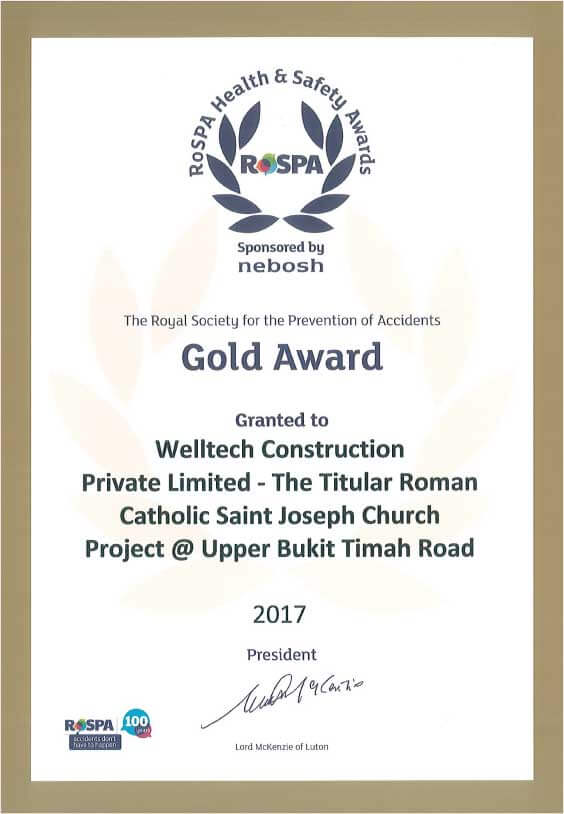
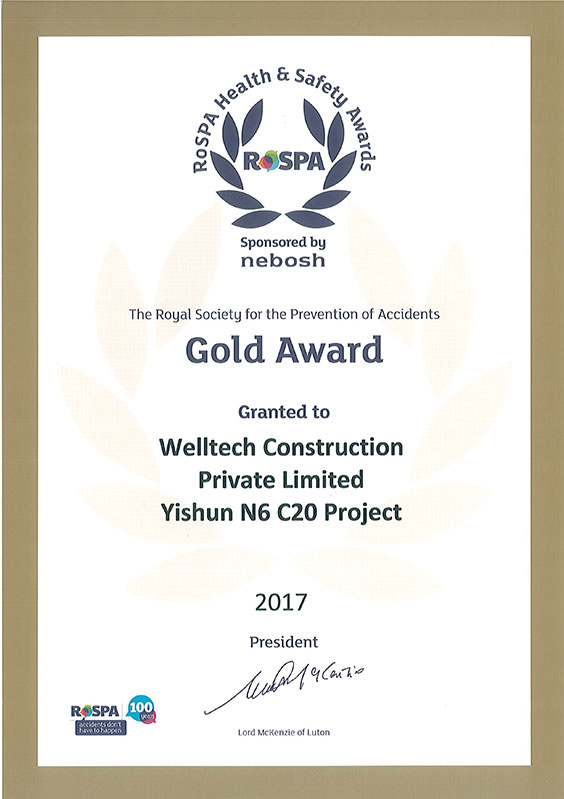
awards: Update page

diff --git a/awards.html b/awards.html
@@ -92,17 +92,31 @@
           <li class="awards__item">
             <h3 class="section__title">2018</h3>
             <div class="row flex-grid flex-grid-top text-center">
-              <div class="col-md-6 col-sm-6 col-xs-12">
-                <img class="awards__image" src="./img/awards-2018-6.jpg" alt="">
+              <div class="col-md-4 col-sm-4 col-xs-12">
+                <img class="awards__image" src="./img/awards-2018-7.jpg" alt="">
                 <div class="text-center">
-                  <h4 class="awards__item-title">HDB CONSTRUCTION SAFETY AWARD</h4>
+                  <h4 class="awards__item-title">ROSPA WELLINGTON PRIMARY SCHOOL GOLD AWARD</h4>
                   <label>2018</label>
                 </div>
               </div>
-              <div class="col-md-6 col-sm-6 col-xs-12">
-                <img class="awards__image" src="./img/awards-2018-7.jpg" alt="">
+              <div class="col-md-4 col-sm-4 col-xs-12">
+                <img class="awards__image" src="./img/awards-2018-8.jpg" alt="">
                 <div class="text-center">
-                  <h4 class="awards__item-title">ROSPA HEALTH & SAFETY GOLD AWARD</h4>
+                  <h4 class="awards__item-title">ROSPA CLEMENTI N4C12 GOLD AWARD</h4>
+                  <label>2018</label>
+                </div>
+              </div>
+              <div class="col-md-4 col-sm-4 col-xs-12">
+                <img class="awards__image" src="./img/awards-2018-9.jpg" alt="">
+                <div class="text-center">
+                  <h4 class="awards__item-title">ROSPA BEDOK N4C9 GOLD AWARD</h4>
+                  <label>2018</label>
+                </div>
+              </div>
+              <div class="col-md-4 col-sm-4 col-xs-12">
+                <img class="awards__image" src="./img/awards-2018-10.jpg" alt="">
+                <div class="text-center">
+                  <h4 class="awards__item-title">ROSPA ANG MO KIO N2C31 GOLD AWARD</h4>
                   <label>2018</label>
                 </div>
               </div>
@@ -134,6 +148,13 @@
                   <label>2018~2021</label>
                 </div>
               </div>
+              <div class="col-md-4 col-sm-4 col-xs-12">
+                <img class="awards__image" src="./img/awards-2018-6.jpg" alt="">
+                <div class="text-center">
+                  <h4 class="awards__item-title">HDB CONSTRUCTION SAFETY AWARD</h4>
+                  <label>2018</label>
+                </div>
+              </div>
             </div>
           </li>
           <li class="awards__item">
@@ -163,7 +184,28 @@
                 <div class="col-md-4 col-sm-4 col-xs-12">
                   <img class="awards__image" src="./img/awards-2017-4.jpg" alt="">
                   <div class="text-center">
-                    <h4 class="awards__item-title">ROSPA HEALTH & SAFETY GOLD AWARD</h4>
+                    <h4 class="awards__item-title">ROSPA YISHUN N6C20 GOLD AWARD</h4>
+                    <label>2017</label>
+                  </div>
+                </div>
+                <div class="col-md-4 col-sm-4 col-xs-12">
+                  <img class="awards__image" src="./img/awards-2017-5.jpg" alt="">
+                  <div class="text-center">
+                    <h4 class="awards__item-title">ROSPA WELLINGTON PRIMARY SCHOOL GOLD AWARD</h4>
+                    <label>2017</label>
+                  </div>
+                </div>
+                <div class="col-md-4 col-sm-4 col-xs-12">
+                  <img class="awards__image" src="./img/awards-2017-6.jpg" alt="">
+                  <div class="text-center">
+                    <h4 class="awards__item-title">ROSPA ST JOSEPH CHURCH GOLD AWARD</h4>
+                    <label>2017</label>
+                  </div>
+                </div>
+                <div class="col-md-4 col-sm-4 col-xs-12">
+                  <img class="awards__image" src="./img/awards-2017-7.jpg" alt="">
+                  <div class="text-center">
+                    <h4 class="awards__item-title">ROSPA 30 PANDAN RD GOLD AWARD</h4>
                     <label>2017</label>
                   </div>
                 </div>
